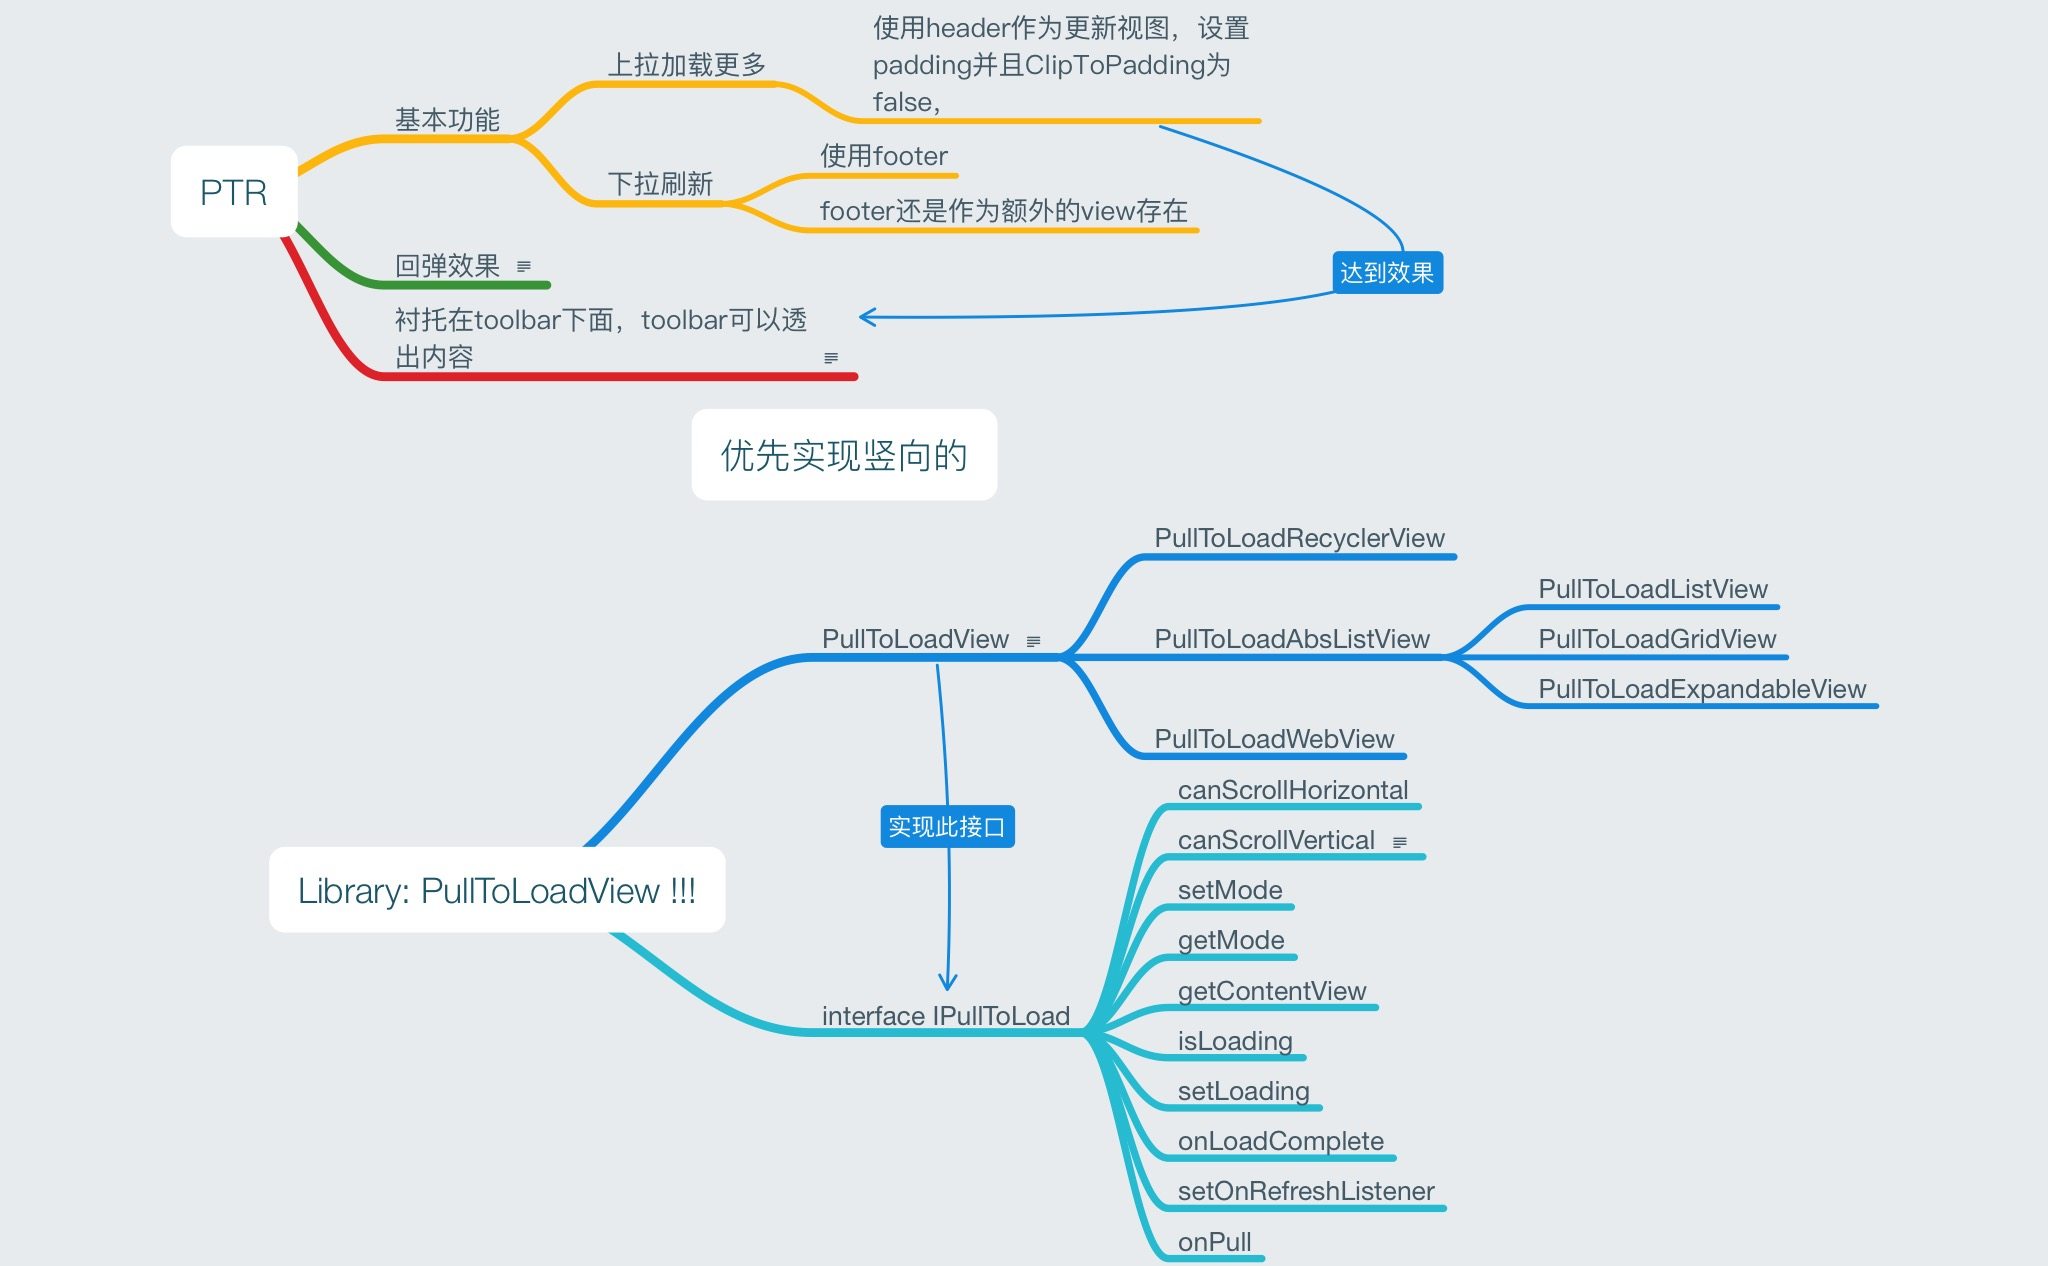
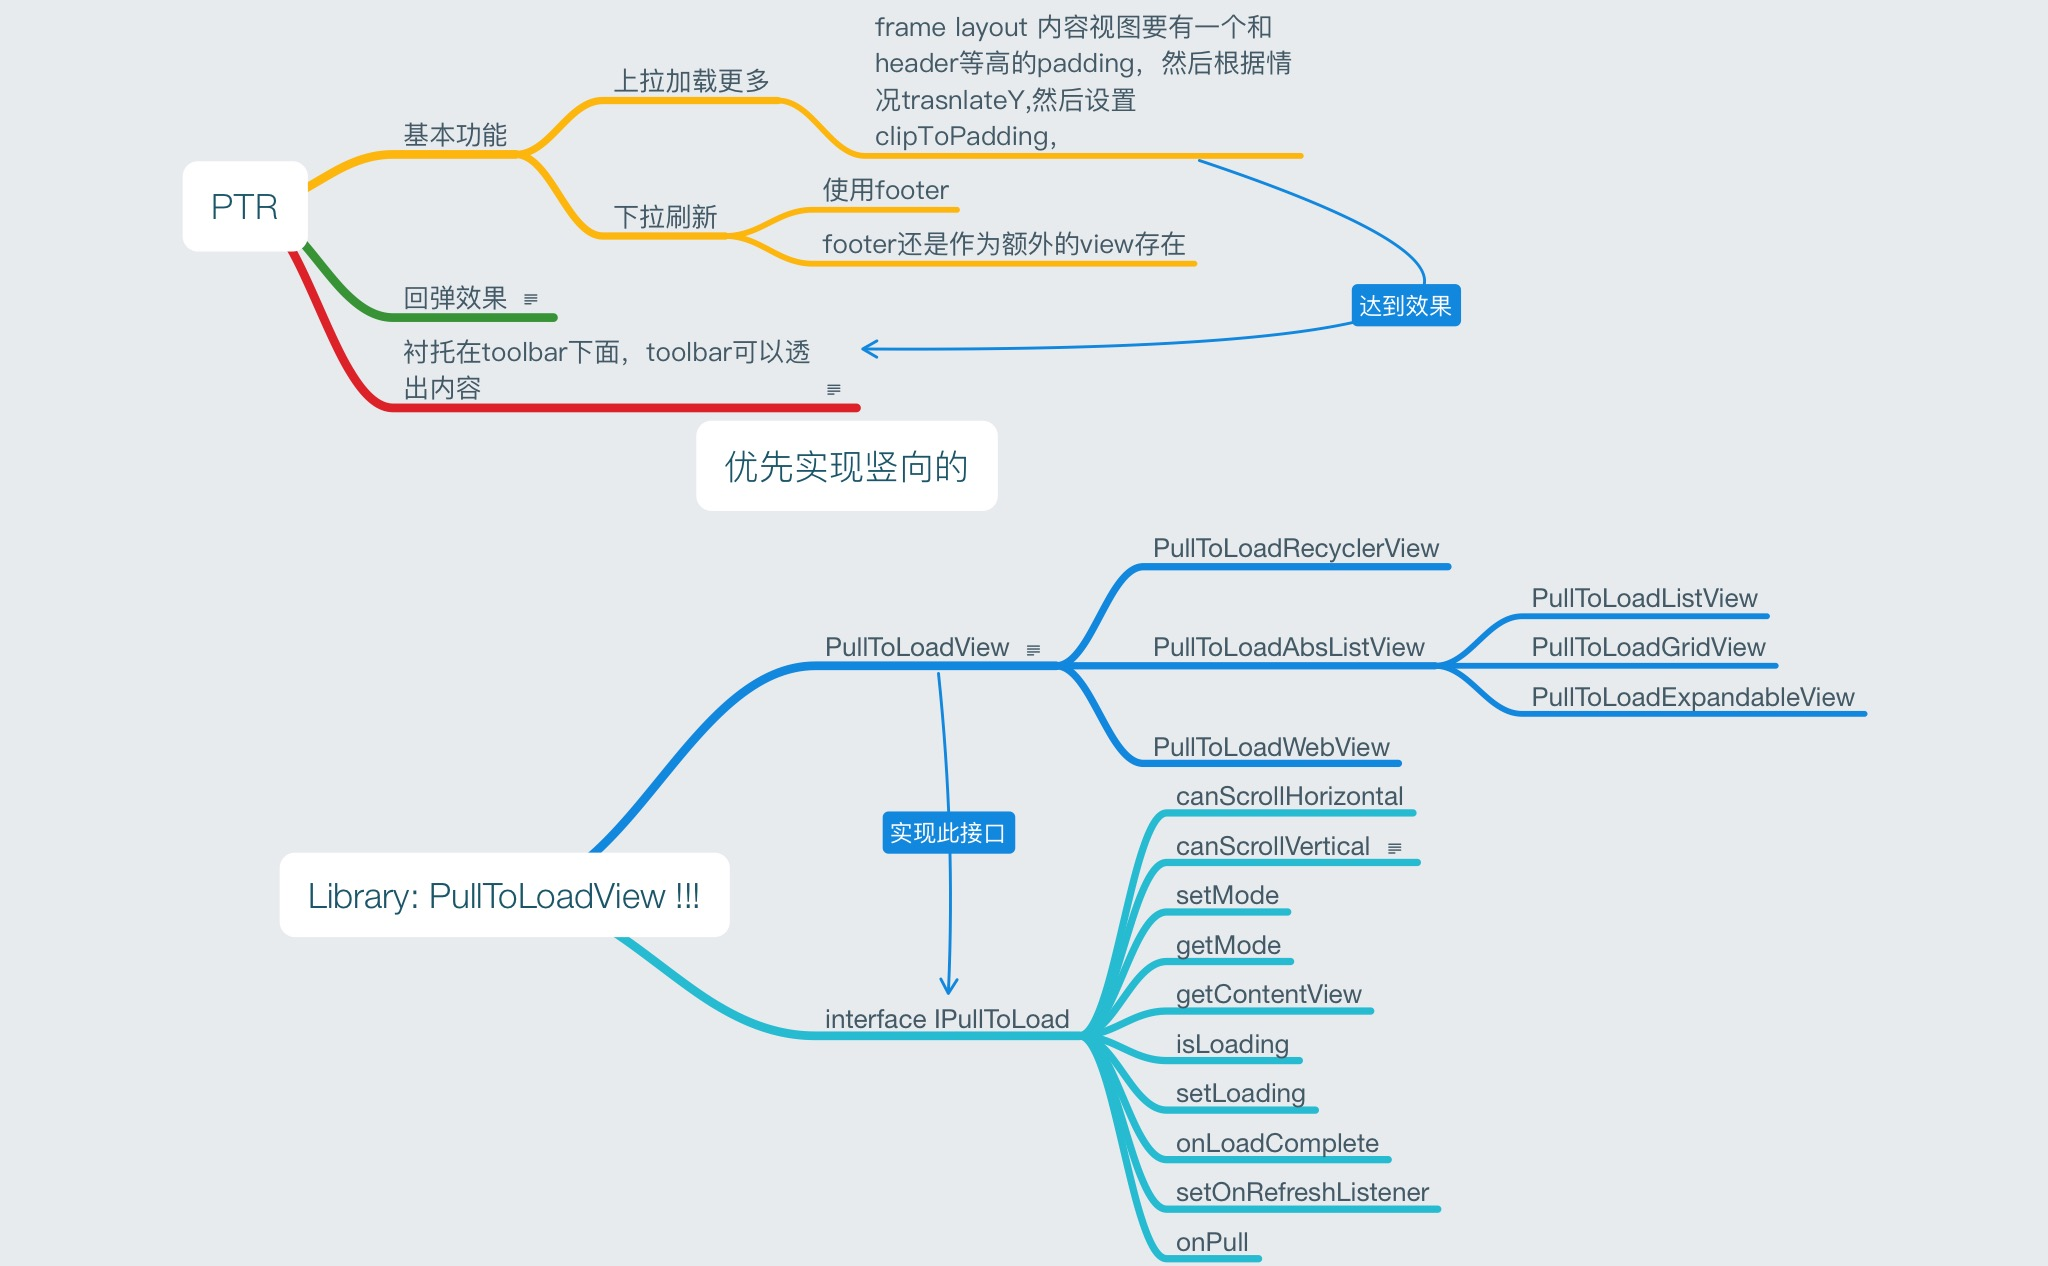
开始调整实现思路,footer就是用来做回弹效果,上拉加载改为自动加载更多,header的处理也要修改

Changed region(s): [[0.1562, 0.4005, 0.9375, 1.0], [0.0938, 0.0, 0.7188, 0.4005], [0.4062, 0.6161, 0.5, 0.6777]]

diff --git a/lib/src/main/java/com/droidworker/lib/PullToLoadBaseView.java b/lib/src/main/java/com/droidworker/lib/PullToLoadBaseView.java
@@ -7,7 +7,7 @@ import android.view.MotionEvent;
 import android.view.View;
 import android.view.ViewConfiguration;
 import android.view.ViewGroup;
-import android.widget.LinearLayout;
+import android.widget.FrameLayout;
 
 import com.droidworker.lib.constant.Direction;
 import com.droidworker.lib.constant.LoadMode;
@@ -17,7 +17,7 @@ import com.droidworker.lib.constant.State;
 /**
  * @author https://github.com/DroidWorkerLYF
  */
-public abstract class PullToLoadBaseView<T extends View> extends LinearLayout implements IPullToLoad<T> {
+public abstract class PullToLoadBaseView<T extends View> extends FrameLayout implements IPullToLoad<T> {
     private LoadingLayout mHeader;
     private LoadingLayout mFooter;
     private T mContentView;
@@ -48,15 +48,6 @@ public abstract class PullToLoadBaseView<T extends View> extends LinearLayout im
     }
 
     private void initView() {
-        switch (getScrollOrientation()) {
-            case VERTICAL:
-                setOrientation(LinearLayout.VERTICAL);
-                break;
-            case HORIZONTAL:
-                setOrientation(LinearLayout.HORIZONTAL);
-                break;
-        }
-
         mContentView = createContentView();
         addContentView(mContentView);
         mHeader = createHeader();
@@ -74,7 +65,7 @@ public abstract class PullToLoadBaseView<T extends View> extends LinearLayout im
     protected abstract T createContentView();
 
     private void addContentView(T contentView) {
-        addViewInternal(contentView, new LinearLayout.LayoutParams(LayoutParams.MATCH_PARENT,
+        addViewInternal(contentView, new FrameLayout.LayoutParams(LayoutParams.MATCH_PARENT,
                 LayoutParams.MATCH_PARENT));
     }
 
@@ -86,15 +77,17 @@ public abstract class PullToLoadBaseView<T extends View> extends LinearLayout im
         this.addViewInternal(child, -1, params);
     }
 
-    protected abstract void addHeader(LoadingLayout loadingLayout, boolean isUnderBar);
+    protected void addHeader(LoadingLayout loadingLayout, boolean isUnderBar){
 
-    private LinearLayout.LayoutParams getLoadingLayoutLayoutParams() {
+    }
+
+    private FrameLayout.LayoutParams getLoadingLayoutLayoutParams() {
         switch (getScrollOrientation()) {
             case VERTICAL:
             default:
-                return new LinearLayout.LayoutParams(LayoutParams.MATCH_PARENT, LayoutParams.WRAP_CONTENT);
+                return new FrameLayout.LayoutParams(LayoutParams.MATCH_PARENT, LayoutParams.WRAP_CONTENT);
             case HORIZONTAL:
-                return new LinearLayout.LayoutParams(LayoutParams.WRAP_CONTENT, LayoutParams.MATCH_PARENT);
+                return new FrameLayout.LayoutParams(LayoutParams.WRAP_CONTENT, LayoutParams.MATCH_PARENT);
         }
     }
 
@@ -126,12 +119,14 @@ public abstract class PullToLoadBaseView<T extends View> extends LinearLayout im
 
     @Override
     public boolean isLoading() {
-        return false;
+        return mState == State.LOADING || mState == State.MANUAL_LOAD;
     }
 
     @Override
     public void setLoading() {
-
+        if (!isLoading()) {
+            setState(State.MANUAL_LOAD);
+        }
     }
 
     @Override
@@ -148,7 +143,24 @@ public abstract class PullToLoadBaseView<T extends View> extends LinearLayout im
 
     @Override
     public void onPull(State state, int distance) {
+        switch (mState) {
+            case PULL_FROM_START:
+                mHeader.onPull(state, distance);
+                break;
+            case PULL_FROM_END:
+                mFooter.onPull(state, distance);
+                break;
+        }
+    }
 
+    @Override
+    public LoadingLayout getHeader() {
+        return mHeader;
+    }
+
+    @Override
+    public LoadingLayout getFooter() {
+        return mFooter;
     }
 
     @Override
@@ -236,7 +248,7 @@ public abstract class PullToLoadBaseView<T extends View> extends LinearLayout im
             }
             break;
             case MotionEvent.ACTION_MOVE: {
-                if(mIsIntercepted){
+                if (mIsIntercepted) {
                     mLastX = event.getX();
                     mLastY = event.getY();
                     handlePull();
@@ -299,7 +311,7 @@ public abstract class PullToLoadBaseView<T extends View> extends LinearLayout im
 
     }
 
-    private void handlePull(){
+    private void handlePull() {
 
     }
 }

diff --git a/lib/src/main/java/com/droidworker/lib/LoadingLayout.java b/lib/src/main/java/com/droidworker/lib/LoadingLayout.java
@@ -24,6 +24,11 @@ public class LoadingLayout extends FrameLayout implements ILoadingLayout {
     }
 
     @Override
+    public void setLabel(String label) {
+
+    }
+
+    @Override
     public void onPull(State state, int distance) {
 
     }

diff --git a/lib/src/main/java/com/droidworker/lib/IPullToLoad.java b/lib/src/main/java/com/droidworker/lib/IPullToLoad.java
@@ -30,4 +30,8 @@ public interface IPullToLoad<T extends View> {
     void setOnRefreshListener();
 
     void onPull(State state, int distance);
+
+    ILoadingLayout getHeader();
+
+    ILoadingLayout getFooter();
 }

diff --git a/lib/src/main/java/com/droidworker/lib/ILoadingLayout.java b/lib/src/main/java/com/droidworker/lib/ILoadingLayout.java
@@ -9,5 +9,7 @@ public interface ILoadingLayout {
 
     int getSize();
 
+    void setLabel(String label);
+
     void onPull(State state, int distance);
 }
